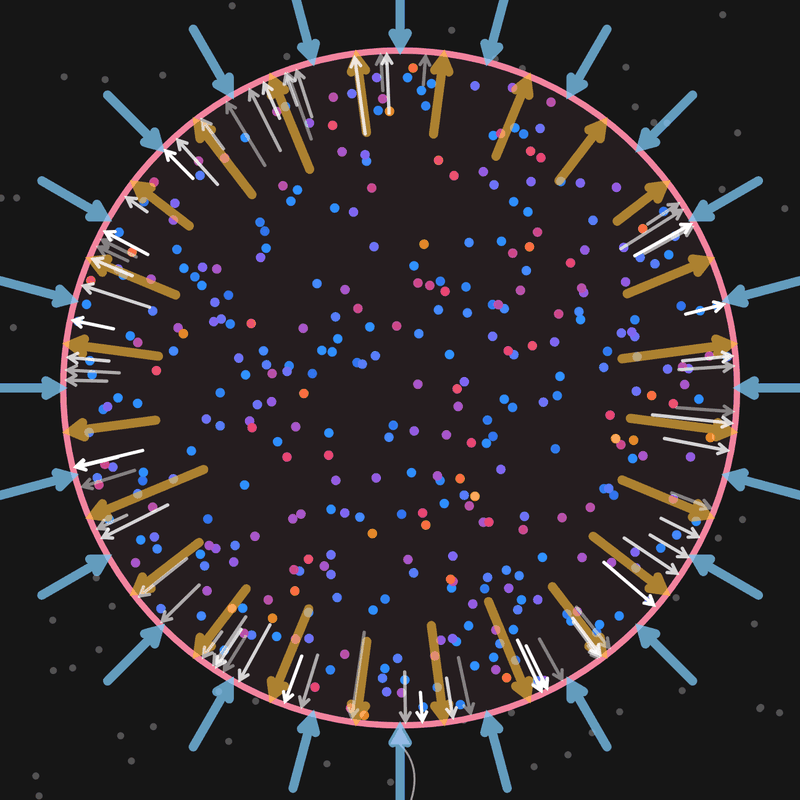
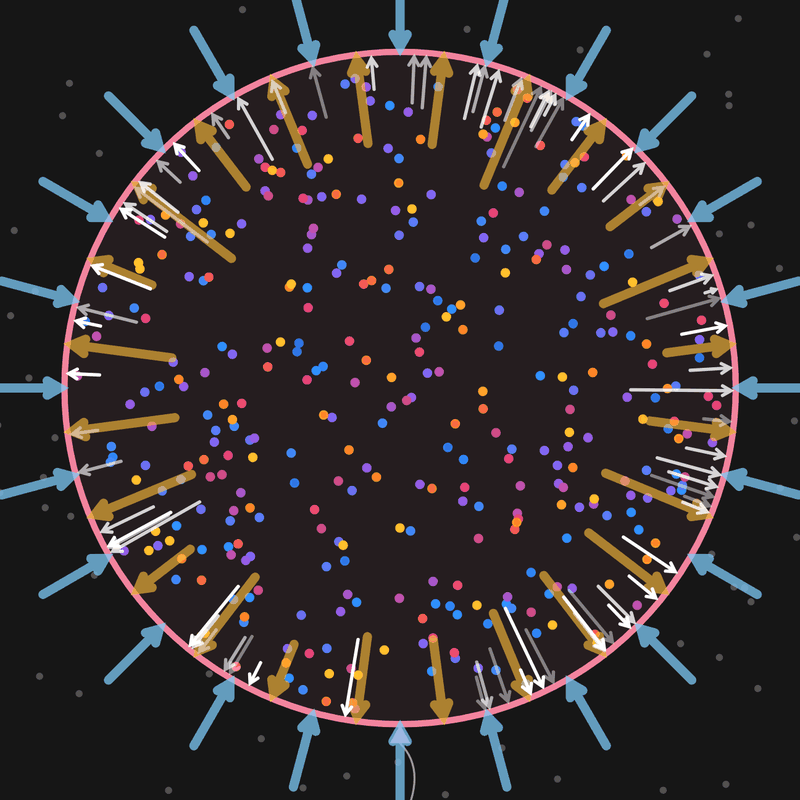
Align pressure page with merged shared styles and Maxwell colours
Centre the speed colour scale on the median speed of the 300 K gas
(blue slower, red faster, as on the Maxwell's demon page), use the
shared sim-charts-row class, keep fullscreen charts compact on short
screens now that the shared fullscreen chart height has zero
specificity, and refresh the tile image.

diff --git a/pressure_simulation.html b/pressure_simulation.html
@@ -286,7 +286,7 @@
 										</div>
 									</div>
 									<div id="charts-container" class="pressure-charts" style="display: none;">
-										<div class="pressure-charts-row">
+										<div class="sim-charts-row pressure-charts-row">
 											<div class="chart-box pressure-chart-box">
 												<canvas id="pressureChart"></canvas>
 											</div>
@@ -307,7 +307,7 @@
 									<div class="description-area">
 										<h3>About this Simulation</h3>
 										<p>A gas is made of an enormous number of tiny particles flying about in straight lines until they hit something. Every time a particle bounces off a wall, the part of its velocity that points into the wall is reversed, so the wall gets a small push (an impulse of 2<em>mv</em>, where <em>m</em> is its mass and <em>v</em> its speed straight into the wall). Countless pushes every second add up to a steady force, and the force on each unit of wall area is the gas <strong>pressure</strong>: <em>P</em> = <em>F</em>/<em>A</em>.</p>
-										<p>This simulation measures pressure exactly that way. It adds up the impulse of every wall collision over the last 1.5 seconds and divides by the time and by the length of wall. The gauge shows the result; its small triangle marks the ideal-gas prediction <em>P</em> = <em>NkT</em>/<em>V</em>. The particles are coloured by speed, from slow (blue) to fast (orange). The thin arrows show individual collisions pushing on the wall (the longer the arrow, the harder the hit). The thicker amber arrows show the average push on each part of the wall: it is the same in every direction. Both kinds of arrow can be switched off in the controls.</p>
+										<p>This simulation measures pressure exactly that way. It adds up the impulse of every wall collision over the last 1.5 seconds and divides by the time and by the length of wall. The gauge shows the result; its small triangle marks the ideal-gas prediction <em>P</em> = <em>NkT</em>/<em>V</em>. The particles are coloured by speed: at room temperature (300 K) the slower half are bluish and the faster half reddish, and the fastest are orange. The thin arrows show individual collisions pushing on the wall (the longer the arrow, the harder the hit). The thicker amber arrows show the average push on each part of the wall: it is the same in every direction. Both kinds of arrow can be switched off in the controls.</p>
 
 										<h4>Why pressure depends on particles, temperature and volume</h4>
 										<ul>

diff --git a/assets/js/pressure_core.js b/assets/js/pressure_core.js
@@ -66,7 +66,10 @@
     const MAX_FRAME_DT = 0.05;       // clamp long frames (tab switches)
     const PUMP_RATE = 300;           // particles per simulated second through the inlet
     const WEIGHT_P = 50 / KPA;       // each piston weight adds 50 kPa
-    const V_COL = 120;               // sqrt(m) * speed at the top of the colour scale
+    // Colour scale (like the Maxwell's demon page: blue = slower, red = faster than the median particle
+    // of the default gas). sqrt(m) * speed / V_COL is the position on the scale; the median speed
+    // at 300 K, sqrt(2 ln 2 * kT/m) = 35.3, lands on the violet midpoint (0.42) between blue and red.
+    const V_COL = 84;
     const NB = 24;                   // colour buckets
     const HIT_CAP = 640, HIT_LIFE = 0.3, HIT_SCALE = 0.07, HIT_MAX = 16;
     const AVG_SCALE = 9 / P_ATM, AVG_MAX = 24;   // 1 atm -> 9 units long

diff --git a/assets/css/pressure_styles.css b/assets/css/pressure_styles.css
@@ -130,7 +130,11 @@ body:not(.sim-fullscreen-active) .pressure-charts {
     margin-bottom: 0.35em;
 }
 
-/* A little more room for the graphs in fullscreen when the screen is tall enough. */
+/* Fullscreen: simulation_styles.css leaves ~340px below the canvas for the charts; use 190px of it
+   when the screen is tall enough and stay compact on short screens (e.g. phones in landscape). */
+body.sim-fullscreen-active #charts-container .pressure-chart-box {
+    height: 150px;
+}
 @media (min-height: 700px) {
     body.sim-fullscreen-active #charts-container .pressure-chart-box {
         height: 190px;
